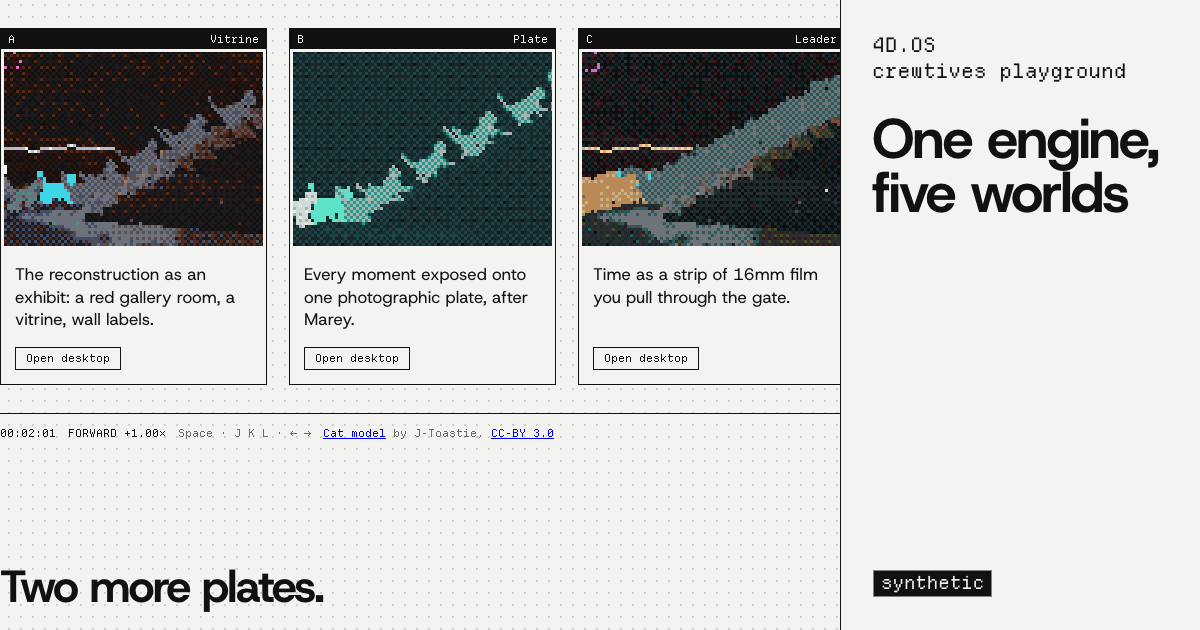
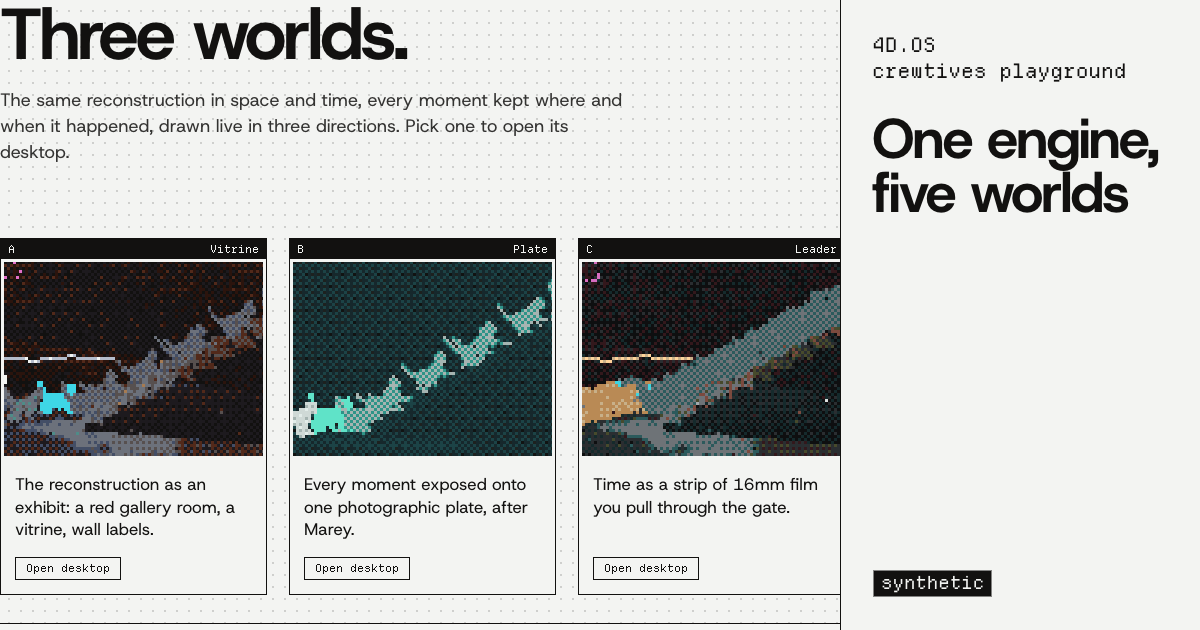
fix(og): frame the launcher card without the page credit line

diff --git a/src/site/og/cards.ts b/src/site/og/cards.ts
@@ -137,9 +137,9 @@ export const CARDS: readonly Card[] = [
     slug: '4d-os',
     source: `${CAPTURES_DIR}/4d-os.png`,
     record: CAPTURES_RECORD,
-    region: { x: 28, y: 368 },
+    region: { x: 28, y: 158 },
     shows: ['a', 'b', 'c'],
-    depicts: 'the 4D.OS launcher: the windows of worlds A, Vitrine, B, Plate and C, Leader, each drawing the same synthetic black cat climbing a stairway, every moment at once, and below them the heading "Two more plates." of worlds D and E',
+    depicts: 'the 4D.OS launcher: under the heading "Three worlds." and its lede, the windows of worlds A, Vitrine, B, Plate and C, Leader, each drawing the same synthetic black cat climbing a stairway, every moment at once',
     title: 'One engine, five worlds',
     display: { file: `${A.fonts}/host-grotesk-latin-wght.woff2`, weight: 700, tracking: -0.035 },
     text: { file: `${A.fonts}/departure-mono-regular.woff2`, weight: 400 },
@@ -153,7 +153,7 @@ export const CARDS: readonly Card[] = [
     record: STILLS_RECORD,
     region: { x: 102, y: 0 },
     shows: ['a'],
-    depicts: 'world A, Vitrine: inside the red gallery wall, the vitrine of points where the synthetic black cat, in cyan, climbs the stairway, its earlier steps left behind as grey ghost cats, and the source camera drawn as a white frustum',
+    depicts: 'world A, Vitrine: inside the red gallery wall, the vitrine of points where the synthetic black cat, in cyan, climbs the stairway, its earlier steps left behind as gray ghost cats, and the source camera drawn as a white frustum',
     title: 'Vitrine',
     display: { file: `${A.fonts}/host-grotesk-latin-wght.woff2`, weight: 700, tracking: -0.04 },
     text: { file: `${A.fonts}/departure-mono-regular.woff2`, weight: 400 },

diff --git a/src/site/pages.ts b/src/site/pages.ts
@@ -139,7 +139,7 @@ export const PAGES: readonly PageMeta[] = [
     title: '4D.OS: one engine, five worlds, every moment of a scene at once',
     description:
       '4D.OS: live 4D scenes with every moment drawn at once, in five worlds: a synthetic cat on a stairway in three, and two subjects built from equations.',
-    alt: `The 4D.OS launcher, captured from its live render: the windows of worlds A, Vitrine, B, Plate and C, Leader, each drawing the same synthetic black cat climbing a stairway, every moment at once, and below them the heading “Two more plates.” of worlds D and E. Beside it, a band reads “4D.OS”, “crewtives playground” and “One engine, five worlds”, with the mark “synthetic”. Cat model: ${CREDIT}.`,
+    alt: `The 4D.OS launcher, captured from its live render: under the heading “Three worlds.” and its lede, the windows of worlds A, Vitrine, B, Plate and C, Leader, each drawing the same synthetic black cat climbing a stairway, every moment at once. Beside it, a band reads “4D.OS”, “crewtives playground” and “One engine, five worlds”, with the mark “synthetic”. Cat model: ${CREDIT}.`,
     jsonLd: 'CreativeWork',
     frameShows: ['a', 'b', 'c'],
   }),

diff --git a/openspec/changes/archive/2026-09-30-move-cat-credit-out-of-share-images/verification.md b/openspec/changes/archive/2026-09-30-move-cat-credit-out-of-share-images/verification.md
@@ -122,3 +122,12 @@ Every `#### Scenario:` heading of the two delta specs appears in the tables abov
 - **Deploy**, which is outside this change: after it, the four new images are served under their new `?v=` versions, and real unfurls in chat and social apps (and their re-scrape of cached cards) can be checked.
 - **"grey" in the frame description of `4d-os-a`** (`depicts` in `src/site/og/cards.ts`, recorded in `provenance.json`) predates this change and was left alone: changing it rewrites that record through `compose`. A later change can fix the spelling.
 - **A test timeout seen under load.** `src/pipeline/bake/recipes/whaleFallBody.test.ts` once took 8.1 s against its 5 s limit while the machine was heavily loaded; the reruns, and every run recorded above, pass (the file alone takes 3.7 s). This change does not touch it; if it recurs, a separate change can raise that test's timeout.
+
+## Resolved after archive
+
+The first item of "Known limitations" and the "grey" item of "Pending" were fixed on the same branch, with no new change, no spec edit and no new capture:
+
+- **No credit anywhere in the launcher's card.** The owner does not want the credit visible in any share card, including the one the launcher's own status line draws into the frame. The frame is never retouched, so the `4d-os` card now copies a different 840×630 region of the same capture, `src/site/og/captures/4d-os.png` (901×1040, SHA-256 unchanged, so its record and its `LICENSES.md` row stay as they are): `{ x: 28, y: 158 }` instead of `{ x: 28, y: 368 }`. In the capture, the status line with the credit occupies rows 797 to 806, and the new region covers rows 158 to 787: it starts in the blank rows between "One scene." (ends at row 155) and "Three worlds." (starts at row 165), and ends below the rule under the windows (row 781), so it shows the heading "Three worlds.", its lede and the three world windows A, B and C, and no credit. Any region that holds the whole windows (bottom edge at row 752) and stops above row 797 includes that heading. `frameShows` stays `a`, `b`, `c`; the band is unchanged. The frame description (`depicts`) and the `/4d-os/` alt text now name the heading instead of "Two more plates.", which is no longer in the frame; the alt has 397 characters.
+- **"gray" in the frame description of `4d-os-a`**, the spelling its alt already had after `94caca5`. The description is written only into `provenance.json`, not into the image or its sidecar.
+- **Records.** `tools/capture-og.ts compose` changed exactly three of the 21 files in `sites/playground/public/og/`: `4d-os.png` (`6194ab77` → `a109f1b6`, 83,217 bytes; the built `og:image` of `/4d-os/` carries `?v=a109f1b6`), its sidecar and `provenance.json`. The nine other PNGs and their sidecars keep their SHA-256. The unit test "the frame is the recorded region of the source, copied pixel for pixel" counts 0 differing pixels in the new frame. Read at 1200×630 and at 300×157, the card shows no credit text in the frame or the band.
+- **Gates**: `tsc --noEmit` exit 0; `npm test` 63 files, 764 tests pass, with and without `dist/`; `rm -rf dist && npm run build` exit 0 with zero `[museum]` lines; `tools/audit-site.ts dist` exit 0, every line `ok`; museum loops 001 a, b, c, 002 d, 003 e and 004 bloomscope FRESH; `openspec validate --specs --strict` 18 passed.
